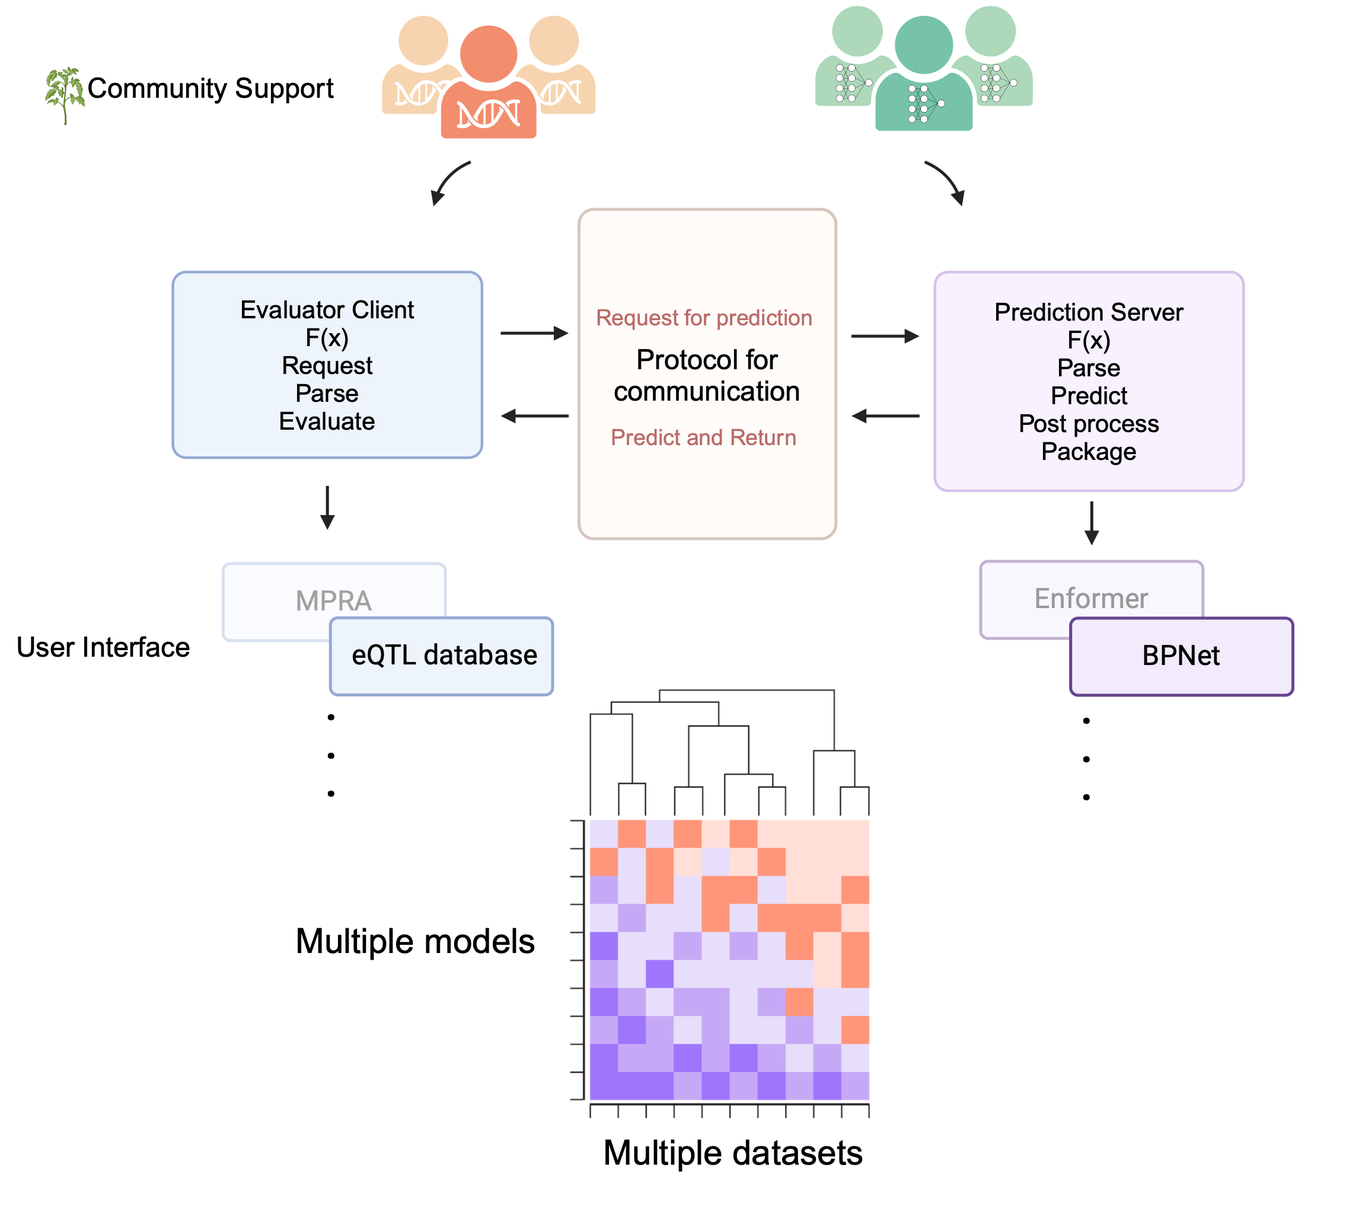
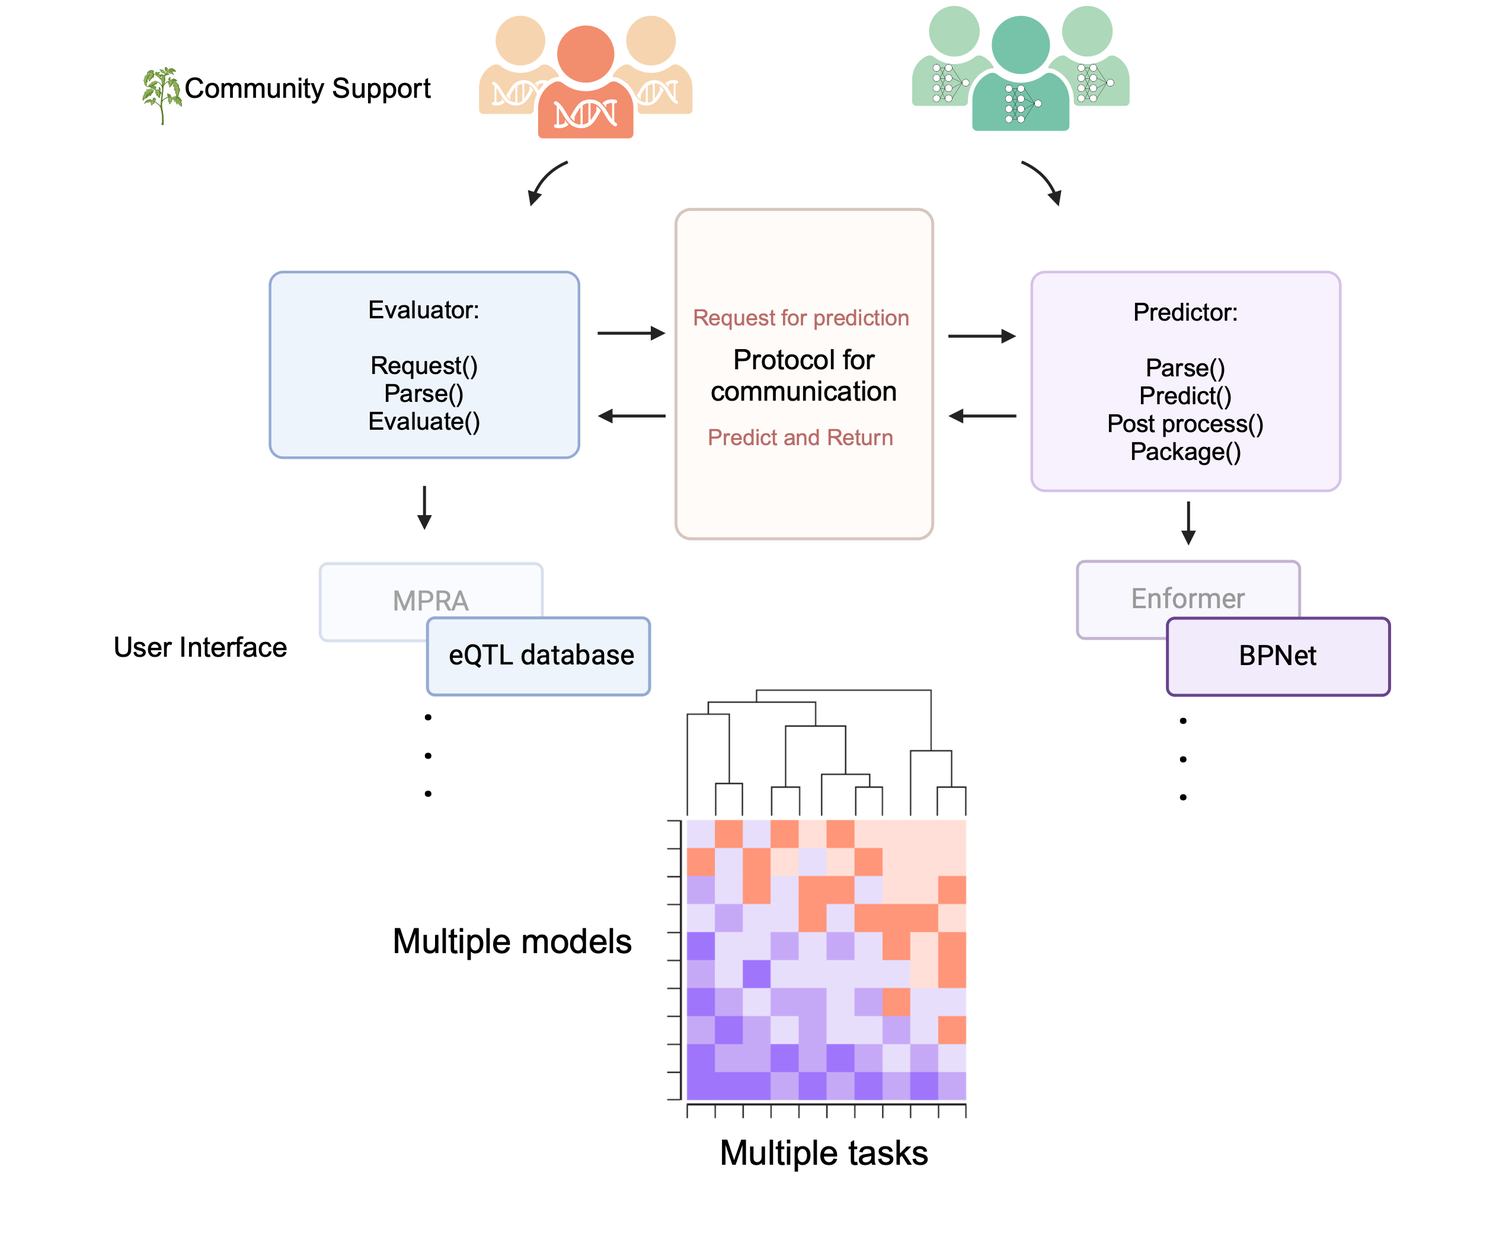
commit

diff --git a/README.md b/README.md
@@ -6,9 +6,9 @@
 
 ### API Reference
 
-Our Application Programming Interface (API)-type approach allows for seamless communication across pre-trained models and functional genomics datasets on which those models can be benchmarked. Models and datasets will communicate via a set of predefined protocols through APIs. The common protocol will enable any model to communicate with any dataset (although not all combinations may make sense).
+This Application Programming Interface (API) was designed for the functional genomics community to create seamless communication across pre-trained models and genomics datasets. It is a product of the feedback from many model and dataset experts and our hope is that it allows for long-lasting benchmarking of models. Models and datasets communicate via a set of predefined protocols through APIs. The common protocol enables any model to communicate with any dataset (although not all combinations may make sense).
 
-The evaluators will make prediction requests in the standard format (seen below) to the predictors, which then return the predictions to the dataset client in a standard format, enabling the evaluators to calculate the model’s performance.
+The evaluators (dataset APIs) will make prediction requests in the standard format (seen below) to the predictors (model APIs), which then return the predictions to the evaluator in a standard format, enabling the evaluators to calculate the model’s performance.
 
 The communication protocol below covers the mandatory parameters required for the API but users are able to add more parameters/functions.
 
@@ -20,36 +20,26 @@ If you would like to be involved we encourage you to use this communication prot
 
 Example of containers for evalutors, predictors and scripts for communication can be found in the `examples` folder.
 
-### Error messages
-
-Error messages that can be returned by the predictors:
-
-We encourage predictor builders to return error messages in the format show below. Helper functions to build off can be found in the `src` folder. 
-
-| Error Message Categories    | Description                                               | Type                                                                                                                                                                                                                                                                                                                                                                                                                                                                                                                                                                                                  |
-|-------------|-------------|----------------------------------------------|
-| `bad prediction request`    | Request was unacceptable - Predictor did not run          | •.json file is formatted incorrectly <br> •mandatory key `x` is missing in .json <br> •`task` requested does not exist. Please choose from the following list `["predict", "interpret", "help"]` <br> •duplicate sequence ids in `sequences`: sequence id `y` is duplicated <br> •`prediction_ranges` are required to be integers <br> •length of `prediction_types` should be the same as length of `cell_types` or only 1 value <br> •sequence ids in `prediction_ranges` do not match those in `sequences` <br> •length of each sub-array in `prediction_ranges` should not be greater than 2 <br> |
-| `prediction request failed` | Evaluator message was valid but prediction was incomplete | • sequence id `z` has an invalid character present <br> • predictor cannot handle sequence lengths this large <br>                                                                                                                                                                                                                                                                                                                                                                                                                                                                                    |
-| `server error`              | Backend issue                                             | •socket communication failed <br> •wifi error <br> •memory error due to large batch size <br> •memory error due to large .json file                                                                                                                                                                                                                                                                                                                                                                                                                                                                   |
+Add a little blurb about .json formatting. 
 
 ### Evaluator request message
 
-| Key                 | Value                     | Description                                                                                                                                                                                                                                                                                                                                                  | Example                                                                                                                                                                                                 |
+| Key                 | Value type                     | Description                                                                                                                                                                                                                                                                                                                                                  | Example                                                                                                                                                                                                 |
 |--------------|--------------|-------------------------------|--------------|
 | `task`              | `string`                  | What task you are asking the predictor to complete: ["predict", "interpret", "help"]                                                                                                                                                                                                                                                                         | "task": "predict"                                                                                                                                                                                       |
-| `readout`           | `string`                  | What is the readout from the predictor: ["point","track", "interaction_matrix"]                                                                                                                                                                                                                                                                              | "readout": "track"                                                                                                                                                                                      |
-| `prediction_types`  | `array of strings`        | What you want predicted for each cell type. Array needs to be the same length as `cell_types`: ["accessibility", "binding" , expression", "chromatin_confirmation"]                                                                                                                                                                                          | "prediction_types": ["expression", "accessibility", "binding"]                                                                                                                                          |
+| `readout`           | `string`                  | Type of readout that is requested from the predictor: ["point","track", "interaction_matrix"]                                                                                                                                                                                                                                                                              | "readout": "track"                                                                                                                                                                                      |
+| `prediction_types`  | `array of strings`        | What you want predicted for each cell type. Array needs to be the same length as `cell_types` or 1 value that is applied to all values in `cell_types`: ["accessibility", "binding" , expression", "chromatin_confirmation"]                                                                                                                                                                                          | "prediction_types": ["expression", "accessibility", "binding"]                                                                                                                                          |
 | `cell_types`        | `array of strings`        | What cell type do you want for each `prediction_types`. Array needs to be the same length as `prediction_types` or only 1 value which will default for all `prediction_types`                                                                                                                                                                                | "cell_types": ["HEPG2", "K562", "K562"]                                                                                                                                                                 |
-| `scale`             | `string`                  | How would you like the predictors scaled upon return (if at all) : ["linear", "log"]                                                                                                                                                                                                                                                                         | "scale":"log"                                                                                                                                                                                           |
+| `scale`             | `string`                  | How would you like the predictions scaled upon return (if at all) : ["linear", "log"]                                                                                                                                                                                                                                                                         | "scale":"log"                                                                                                                                                                                           |
 | `strand`            | `string`                  | Which strand would you like to be predicted : ["positive", "negative"]                                                                                                                                                                                                                                                                                       | "strand":"positive"                                                                                                                                                                                     |
 | `upstream_seq`      | `string`                  | Upstream flanking sequences to add to each sequence. Can be left blank.                                                                                                                                                                                                                                                                                      | "upstream_seq" : "AATTA"                                                                                                                                                                                |
 | `downstream_seq`    | `string`                  | Downstream flanking sequences to add to each sequence. Can be left blank.                                                                                                                                                                                                                                                                                    | "downstream_seq" : "CCCAAAA"                                                                                                                                                                            |
 | `sequences`         | `array of strings`        | A collection of key-value pairs. Array of sequences with unique sequence ids - any characters [A-Z][a-z][0-9][-.\_\~#\@%^&\*()]. The sequence ids are matched to the predictor returned sequence ids automatically by predictor                                                                                                                              | "sequences":[<br> {<br>   "seq1": "ATGC...",<br>   "seq2": "ATGC...",<br>  "random_seq": "ATGC...",<br>  "enhancer": "ATGC...",<br>  "control": "ATGC..." <br> }<br>]                                   |
-| `prediction_ranges` | `multi-dimensional array` | A collection of key-value pairs, where the value is a multi/single-dimensional array based on what regions you want included in the predictions for each sequence. Sub-arrays of 2 integers mark the start and end location of the range of prediction you are interested in. The keys should be identical to the sequence ids. This can also be left blank. | "prediction_ranges":[<br>  {<br>   "seq1": [0,1000] ,<br>   "seq2": [100,110],<br>  "random_seq":[ <br>    [0,10],<br>    [15,100] <br>   ],<br>  "enhancer":    [210,500],<br>  "control": [] <br> }<br>] |
+| `prediction_ranges` | `multi-dimensional array` | A collection of key-value pairs, where the value is a multi/single-dimensional array based on what regions you want included in the predictions for each sequence. Sub-arrays of 2 integers mark the start and end location of the range of prediction you are interested in and you can have multiple starts and stops per sequence. The keys should be identical to the sequence ids. This can also be left blank. | "prediction_ranges":[<br>  {<br>   "seq1": [0,1000] ,<br>   "seq2": [100,110],<br>  "random_seq":[ <br>    [0,10],<br>    [15,100] <br>   ],<br>  "enhancer":    [210,500],<br>  "control": [] <br> }<br>] |
 
 ### Predictor return message
 
-| Key                | Value              | Description                                                                                                                                                                                                | Example                 |
+| Key                | Value type              | Description                                                                                                                                                                                                | Example                 |
 |---------------|---------------|-----------------------------|---------------|
 | `task`             | `string`           | What task was completed by the model                                                                                                                                                                       | "task" : "predict"      |
 | `scale_prediction` | `string`           | How did the predictor scale the predictions (if at all)                                                                                                                                                    | "scale": "log"          |
@@ -63,21 +53,33 @@ Any evaluator can retrieve information from a predictor by asking for `help` in 
 
 Message sent by evalutor:
 
-| Key    | Value  | Description                                                                 |
-|--------------|--------------|--------------------------------------------|
-| `task` | `string` | Retrieve basis information about the predictor (written by model developers) |
+| Key    | Value type  | Value  | Description                                                                 |
+|--------------|--------------|--------------------------------------------|------------|
+| `task` | `string` | "help"| Retrieve basis information about the predictor (written by model developers) |
 
 Message returned by predictor:
 
-| Key                     | Value     | Description       | Example |
+| Key                     | Value type     | Description       | Example |
 |---------------|---------------|-------------------------------------------|----------|
-| `model`                 | `string`  | Model name                                                                                                         | "model": "Enformer" |
+| `model`                 | `string`  | Model name                                                                                                         | "model": "deBoer Lab test" |
 | `version`               | `string`  | Information about version of model                                                                                 | "version": "2.2"|
 | `build_date`            | `string`  | Date the predictor container was built - to track potential rebuilds                                               | "build_date": "Aug 20, 2024"|
 | `features`              | `array of strings`   | List of features that the model predicts and for which cell types.                                                 | "features": [<br> {<br>   "HEPG2": ["DNase", "H3K4me3",...],<br>   "iPSC": ["H3K4me3", "DNase",...],<br>  "Adult liver": ["CAGE", "DNase",...] <br>  } <br>] |
-| `species`               | `array of strings`  | Name of species that the model predicts for - can be more than 1                                                   | "species": ["mouse", "human"]|
-| `author`                | `string`  | Paper author/authors or name of container builder                                                                  |  "author": "David R. Kelley" |
-| `input_size`            | `Integer` | Number of base pairs of sequence that the model requires as input                                                  | "input_size": 393,639 |
-| `output_size`           | `Integer` | Number of base pairs that the models predicts across. Can also be 0 for single prediction models.                  | "output_size": 114,688|
-| `resolution`            | `Integer` | For models that predict across genomic tracks what is the base pair resolution                                     | "resolution": 128|
+| `species`               | `array of strings`  | Name of species that the model predicts for - can be more than one                                                   | "species": ["yeast", "human"]|
+| `author`                | `string`  | Paper author/authors or name of container builder                                                                  |  "author": "Ishika Luthra" |
+| `input_size`            | `Integer` | Number of base pairs of sequence that the model requires as input                                                  | "input_size": 500500 |
+| `output_size`           | `Integer` | Number of base pairs that the models predicts across. Can also be zero for single prediction models.                  | "output_size": 100000|
+| `resolution`            | `Integer` | For models that predict across genomic tracks what is the base pair resolution                                     | "resolution": 10|
 | `max_prediction_length` | `Integer` | What is the maximum sequence length you can provide before the model will no longer be able to handle the sequence | "max_prediction_length": "2MB"
+
+### Error messages
+
+Error messages that should be returned by the predictors in .json format. Error messages should be returned via one of the 3 possible keys so that the evaluators can "catch" the exception. Values can follow the format described below (any type) or other/additional ones can be added by the predictor builders.
+
+We encourage predictor builders to return error messages in the format show below. Helper functions that have some basic error catching to build off can be found in the `src` folder. 
+
+| Error Message Keys    | Description                                               | Value                                                                                                                                                                                                                                                                                                                                                                                                                                                                                                                                                                                                  |
+|-------------|-------------|----------------------------------------------|
+| `bad_prediction_request`    | Request was unacceptable - Predictor did not run          | •.json file is formatted incorrectly <br> •mandatory key `x` is missing in .json <br> •`task` requested is not recognized. Please choose from the following list `["predict", "interpret", "help"]` <br> •duplicate sequence ids in `sequences`: sequence id `y` is duplicated <br> •`prediction_ranges` are required to be integers <br> •length of `prediction_types` should be the same as length of `cell_types` or only 1 value <br> •sequence ids in `prediction_ranges` do not match those in `sequences` <br> •length of each sub-array in `prediction_ranges` should not be greater than 2 <br> • sequence id `z` has an invalid character present <br> |
+| `prediction_request_failed` | Evaluator message was valid but prediction was incomplete | • "seqz" in `sequences` has an invalid character present <br> • predictor cannot handle sequence lengths this large <br>                                                                                                                                                                                                                                                                                                                                                                                                                                                                                    |
+| `server_error`              | Backend issue                                             | •socket communication failed <br> •wifi error <br> •memory error (eg. due to large batch size, due to large .json file)                                                                                                                                                                                                                                                                                                                                                                                                                                                                   |
